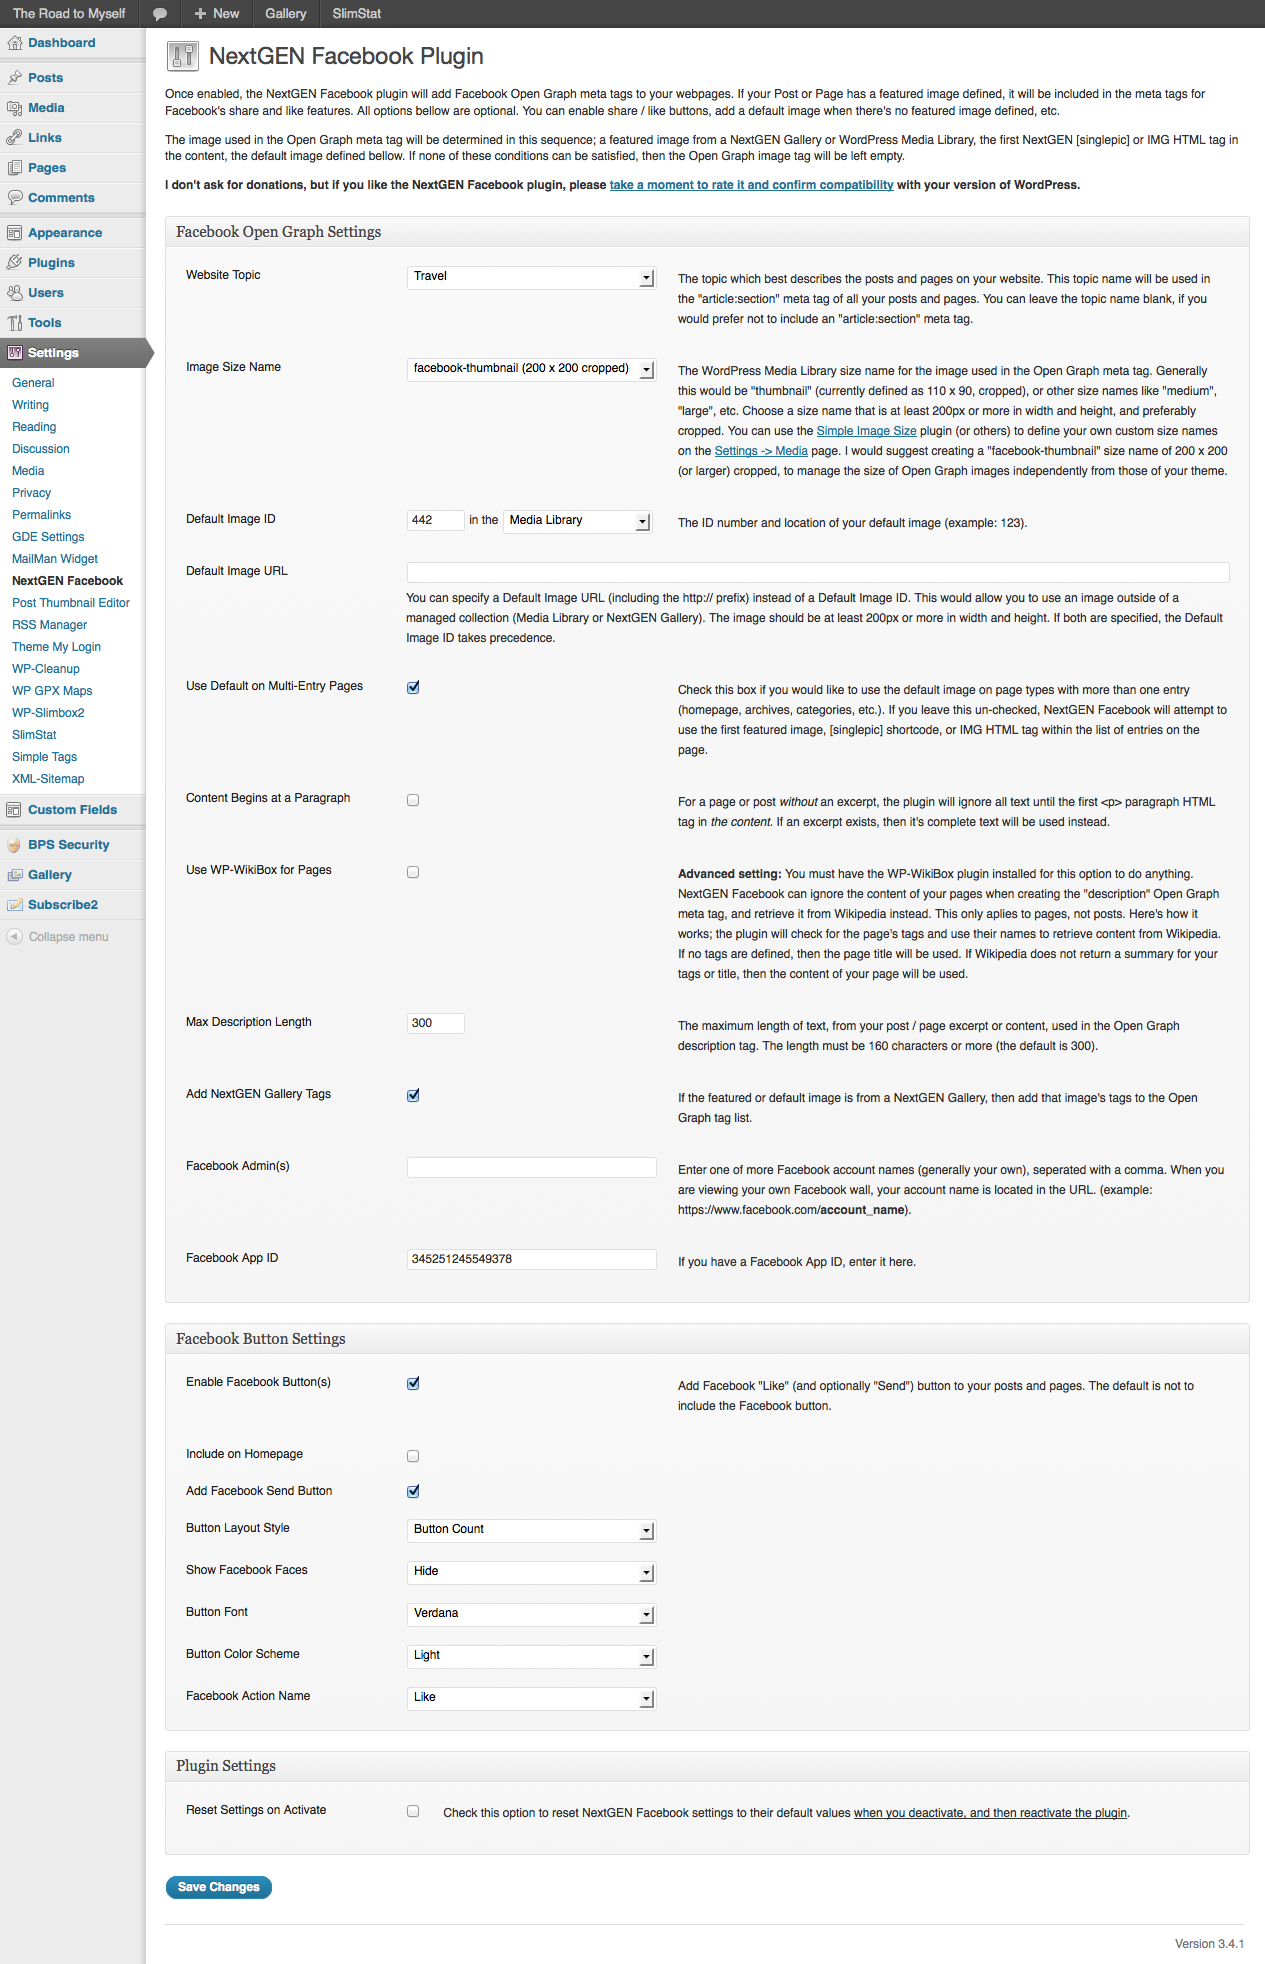
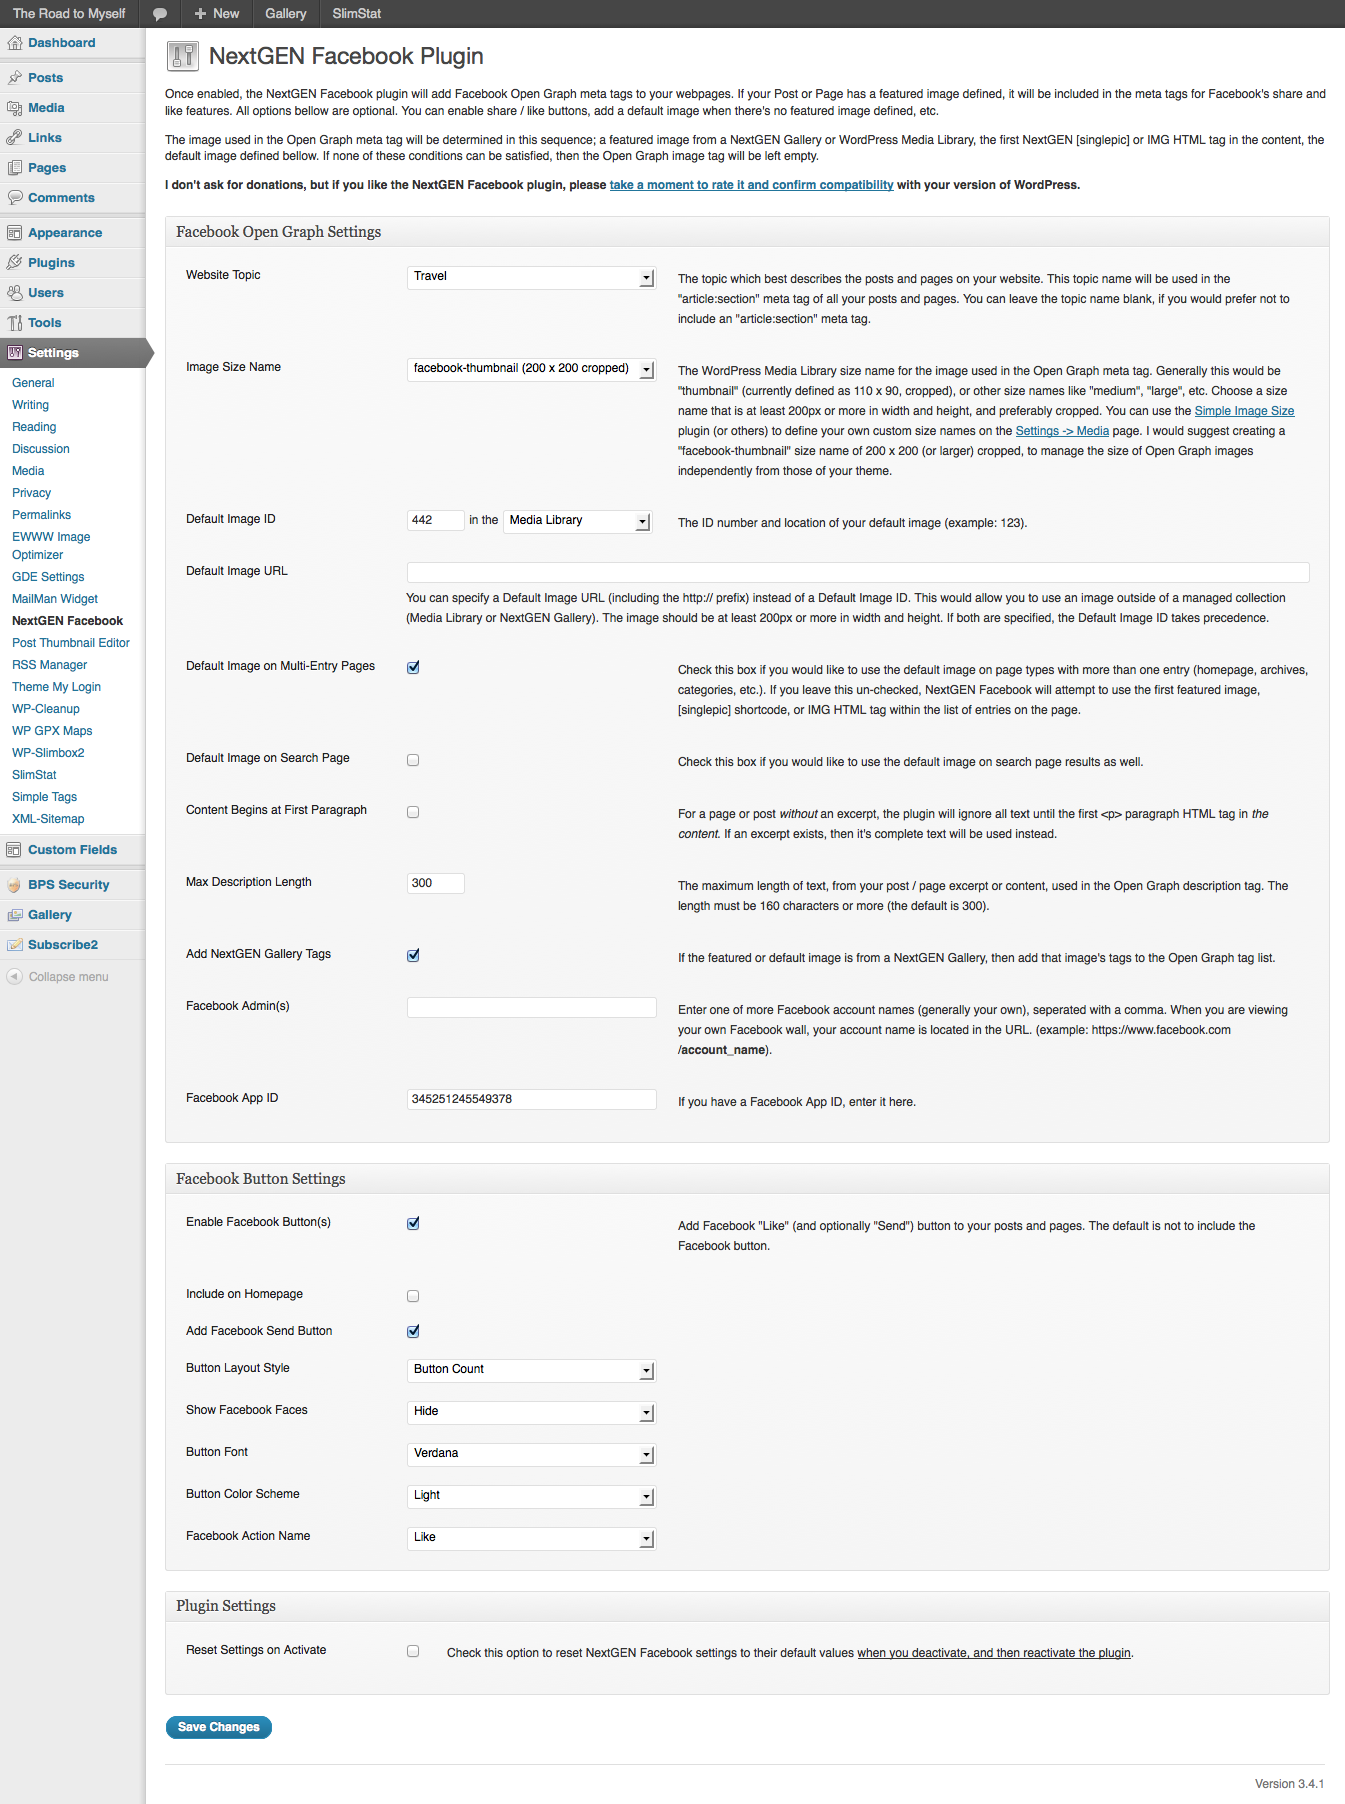
v1.5.1 trunk
git-svn-id: https://plugins.svn.wordpress.org/nextgen-facebook/trunk@593358 b8457f37-d9ea-0310-8a92-e5e31aec5664

diff --git a/nextgen-facebook.php b/nextgen-facebook.php
@@ -3,7 +3,7 @@
 Plugin Name: NextGEN Facebook
 Plugin URI: http://wordpress.org/extend/plugins/nextgen-facebook/
 Description: Adds Facebook HTML meta tags to webpage headers, including featured images. Also includes optional Like and Send Facebook buttons.
-Version: 1.5
+Version: 1.5.1
 Author: Jean-Sebastien Morisset
 Author URI: http://trtms.com/
 
@@ -94,9 +94,11 @@ function ngfb_add_defaults() {
 			"og_def_img_id" => "",
 			"og_def_img_url" => "",
 			"og_def_on_home" => "",
+			"og_def_on_search" => "true",
 			"og_ngg_tags" => "",
 			"og_desc_strip" => "",
 			"og_desc_wiki" => "",
+			"og_wiki_tag" => "Wiki-",
 			"og_desc_len" => "300",
 			"og_admins" => "",
 			"og_app_id" => "",
@@ -248,6 +250,7 @@ function ngfb_render_form() {
 									selected( $options['og_art_section'], $s),
 										'>', $s, '</option>', "\n";
 							}
+							unset ( $s );
 						?>
 					</select>
 				</td><td>
@@ -287,6 +290,7 @@ function ngfb_render_form() {
 
 							echo "<option value='$s' ".(selected($options['og_img_size'], $s)).">$s (${width} x ${height}".($crop ? " cropped" : "").")</option>\n";
 						}
+						unset ( $s );
 					?>
 					</select>
 				</td><td>
@@ -338,7 +342,7 @@ function ngfb_render_form() {
 			</tr>
 
 			<tr>
-				<th scope="row" nowrap>Use Default on Multi-Entry Pages</th>
+				<th scope="row" nowrap>Default Image on Multi-Entry Pages</th>
 				<td valign="top"><input name="ngfb_options[og_def_on_home]" type="checkbox" value="1" 
 					<?php if (isset($options['og_def_on_home'])) { checked('1', $options['og_def_on_home']); } ?> />
 				</td><td>
@@ -352,7 +356,17 @@ function ngfb_render_form() {
 			</tr>
 
 			<tr>
-				<th scope="row" nowrap>Content Begins at a Paragraph</th>
+				<th scope="row" nowrap>Default Image on Search Page</th>
+				<td valign="top"><input name="ngfb_options[og_def_on_search]" type="checkbox" value="1" 
+					<?php if (isset($options['og_def_on_search'])) { checked('1', $options['og_def_on_search']); } ?> />
+				</td><td>
+					<p>Check this box if you would like to use the default
+					image on search page results as well.</p>
+				</td>
+			</tr>
+
+			<tr>
+				<th scope="row" nowrap>Content Begins at First Paragraph</th>
 				<td valign="top"><input name="ngfb_options[og_desc_strip]" type="checkbox" value="1" 
 					<?php if (isset($options['og_desc_strip'])) { checked('1', $options['og_desc_strip']); } ?> />
 				</td><td>
@@ -363,24 +377,39 @@ function ngfb_render_form() {
 				</td>
 			</tr>
 
+			<?php 
+				// hide WP-WikiBox option if not installed and activated
+				if ( ! function_exists( 'wikibox_summary' ) ) echo "<!-- "; 
+			?>
 			<tr>
 				<th scope="row" nowrap>Use WP-WikiBox for Pages</th>
 				<td valign="top"><input name="ngfb_options[og_desc_wiki]" type="checkbox" value="1" 
 					<?php if (isset($options['og_desc_wiki'])) { checked('1', $options['og_desc_wiki']); } ?> />
 				</td><td>
-					<p><strong>Advanced setting:</strong> You must have the
-					WP-WikiBox plugin installed for this option to do anything.
-					NextGEN Facebook can ignore the content of your pages when
-					creating the "description" Open Graph meta tag, and
+					<p>NextGEN Facebook can ignore the content of your pages
+					when creating the "description" Open Graph meta tag, and
 					retrieve it from Wikipedia instead. This only aplies to
 					pages, not posts. Here's how it works; the plugin will
 					check for the page's tags and use their names to retrieve
 					content from Wikipedia. If no tags are defined, then the
 					page title will be used. If Wikipedia does not return a
-					summary for your tags or title, then the content of your
+					summary for the tags or title, then the content of your
 					page will be used.</p>
 				</td>
 			</tr>
+
+			<tr>
+				<th scope="row">WP-WikiBox Tag Prefix</th>
+				<td valign="top"><input type="text" size="6" name="ngfb_options[og_wiki_tag]" 
+					value="<?php echo $options['og_wiki_tag']; ?>" />
+				</td><td>
+					<p>A prefix to identify the WordPress tag names used by the
+					WP-WikiBox option. Leave this option blank to use all tags
+					associated to a post, or choose a prefix (like "Wiki-") to
+					use only tag names starting with that prefix.</p>
+				</td>
+			</tr>
+			<?php if ( ! function_exists( 'wikibox_summary' ) ) echo "--> "; ?>
 
 			<tr>
 				<th scope="row">Max Description Length</th>
@@ -568,6 +597,9 @@ function ngfb_validate_options($input) {
 	if ( ! isset( $input['og_def_on_home'] ) ) $input['og_def_on_home'] = null;
 	$input['og_def_on_home'] = ( $input['og_def_on_home'] == 1 ? 1 : 0 );
 	
+	if ( ! isset( $input['og_def_on_search'] ) ) $input['og_def_on_search'] = null;
+	$input['og_def_on_search'] = ( $input['og_def_on_search'] == 1 ? 1 : 0 );
+	
 	if ( ! isset( $input['fb_enable'] ) ) $input['fb_enable'] = null;
 	$input['fb_enable'] = ( $input['fb_enable'] == 1 ? 1 : 0 );
 	
@@ -718,7 +750,14 @@ function ngfb_add_meta() {
 			
 			$tag_names = array();
 			$page_tags = wp_get_post_tags( $post->ID );
-			foreach ( $page_tags as $tag ) $tag_names[] = $tag->name;
+			$tag_prefix = $options['og_wiki_tag'];
+
+			foreach ( $page_tags as $tag ) {
+				$tag_name = $tag->name;
+				if ( $tag_prefix ) $tag_name = preg_replace( "/^$tag_prefix/", "", $tag_name );
+				$tag_names[] = $tag_name;
+			}
+			unset ( $tag );
 			
 			if ( $options['og_ngg_tags'] ) {
 				if ( function_exists('has_post_thumbnail') && 
@@ -763,22 +802,26 @@ function ngfb_add_meta() {
 			if ( preg_match_all( '/\[singlepic[^\]]+id=([0-9]+)/i', $post->post_content, $match) > 0 ) {
 				$thumb_id = $match[1][0];					
 				$image_url = ngfb_get_ngg_thumb_url( 'ngg-'.$thumb_id );
-			} elseif ( preg_match_all( '/<img[^>]+src=[\'"]([^\'"]+)[\'"]/i', $post->post_content, $match) > 0 ) {
-				$image_url = $match[1][0];					
+			} elseif ( preg_match_all( '/<img[^>]+src=[\'"]([^\'"]+)[\'"]/i', $post->post_content, $match) > 0 )
+					$image_url = $match[1][0];
+		}
+	}
+
+	if ( is_search() && ! $options['og_def_on_search'] ) {
+
+	} else {
+
+		if ( ! $image_url && $options['og_def_img_id'] != '' ) {
+			if ($options['og_def_img_id_pre'] == 'ngg') {
+				$image_url = ngfb_get_ngg_thumb_url( $options['og_def_img_id_pre'].'-'.$options['og_def_img_id'] );
+			} else {
+				$out = wp_get_attachment_image_src( $options['og_def_img_id'], $options['og_img_size'] );
+				$image_url = $out[0];
 			}
 		}
+	
+		if ( ! $image_url ) $image_url = $options['og_def_img_url'];	// if still empty, use the default url.
 	}
-
-	if ( ! $image_url && $options['og_def_img_id'] != '') {
-		if ($options['og_def_img_id_pre'] == 'ngg') {
-			$image_url = ngfb_get_ngg_thumb_url( $options['og_def_img_id_pre'].'-'.$options['og_def_img_id'] );
-		} else {
-			$out = wp_get_attachment_image_src( $options['og_def_img_id'], $options['og_img_size'] );
-			$image_url = $out[0];
-		}
-	}
-
-	if( ! $image_url ) $image_url = $options['og_def_img_url'];	// if still empty, use the default url.
 
 	/* define the site_title
 	-------------------------------------------------------------- */
@@ -798,6 +841,7 @@ function ngfb_add_meta() {
 		if ($parent_title) $page_title .= ' ('.$parent_title.')';
 
 	} elseif ( is_category() ) { 
+
 		// wordpress does not include parents - we want the parents too
 		$page_title = ngfb_str_decode( single_cat_title( '', false ) );
 		$page_title = trim( get_category_parents( get_cat_ID( $page_title ), false, ' | ', false ), ' |');
@@ -812,26 +856,39 @@ function ngfb_add_meta() {
 	/* define the page_desc
 	-------------------------------------------------------------- */
 
-	if ( is_singular() ) {
+	if ( is_search() && ! $options['og_def_on_search'] ) {
+
+	} elseif ( is_singular() ) {
 	
 		if ( has_excerpt($post->ID) ) {
 
 			$page_text = strip_tags( get_the_excerpt( $post->ID ) );
 
-		// use WP-WikiBox for page content, if allowed and activated
+		// use WP-WikiBox for page content, if option is true
 		} elseif ( is_page() && $options['og_desc_wiki'] && function_exists( 'wikibox_summary' ) ) {
-
 			$tags = wp_get_post_tags( $post->ID );
-	
-			if ( $tags ) foreach ( $tags as $tag ) $page_text .= wikibox_summary( $tag->name, '', false ); 
-			else $page_text .= wikibox_summary( the_title( '', '', false ), '', false );
-
+			if ( $tags ) {
+				$tag_prefix = $options['og_wiki_tag'];
+				foreach ( $tags as $tag ) {
+					$tag_name = $tag->name;
+					if ( $tag_prefix )
+						if ( preg_match( "/^$tag_prefix/", $tag_name ) > 0 )
+							$tag_name = preg_replace( "/^$tag_prefix/", "", $tag_name );
+						else continue;
+					$page_text .= wikibox_summary( $tag_name, '', false ); 
+				}
+				unset ( $tag );
+				unset ( $tag_name );
+				unset ( $tag_prefix );
+			} else {
+				$page_text .= wikibox_summary( the_title( '', '', false ), '', false );
+			}
 		} 
 	
 		// fallback to regular content
 		if ( ! $page_text ) {
 
-			// remove shortcodes not to screw-up NGG's album tag
+			// remove shortcodes not to screw-up NGG's album tag parsing
 			$page_text = apply_filters('the_content', strip_shortcodes( $post->post_content ) );
 		
 			// ignore everything until the first paragraph tag
@@ -892,10 +949,14 @@ function ngfb_add_meta() {
 <meta property="og:site_name" content="<?php echo $site_title; ?>" />
 <meta property="og:title" content="<?php echo $page_title; ?>" />
 <meta property="og:type" content="<?php echo $page_type ?>" />
-<meta property="og:image" content="<?php echo $image_url; ?>" />
-<meta property="og:description" content="<?php echo $page_desc; ?>" />
 <meta property="og:url" content="http://<?php echo $_SERVER['HTTP_HOST'] . $_SERVER['REQUEST_URI'] ?>" />
 <?php
+	if ( $page_desc )
+		echo '<meta property="og:description" content="', $page_desc, '" />', "\n";
+
+	if ( $image_url )
+		echo '<meta property="og:image" content="', $image_url, '" />', "\n";
+
 	if ($page_type == "article") {
 
 			echo '<meta property="article:published_time" content="', 
@@ -913,8 +974,9 @@ function ngfb_add_meta() {
 				get_the_author_meta( 'user_login', 
 				$post->post_author ), '/" />', "\n";
 
-			foreach( $tag_names as $tag )
+			foreach ( $tag_names as $tag )
 				echo '<meta property="article:tag" content="', $tag, '" />', "\n";
+			unset ( $tag );
 	}
 ?>
 <!-- NextGEN Facebook Plugin Open Graph Tags: END -->
